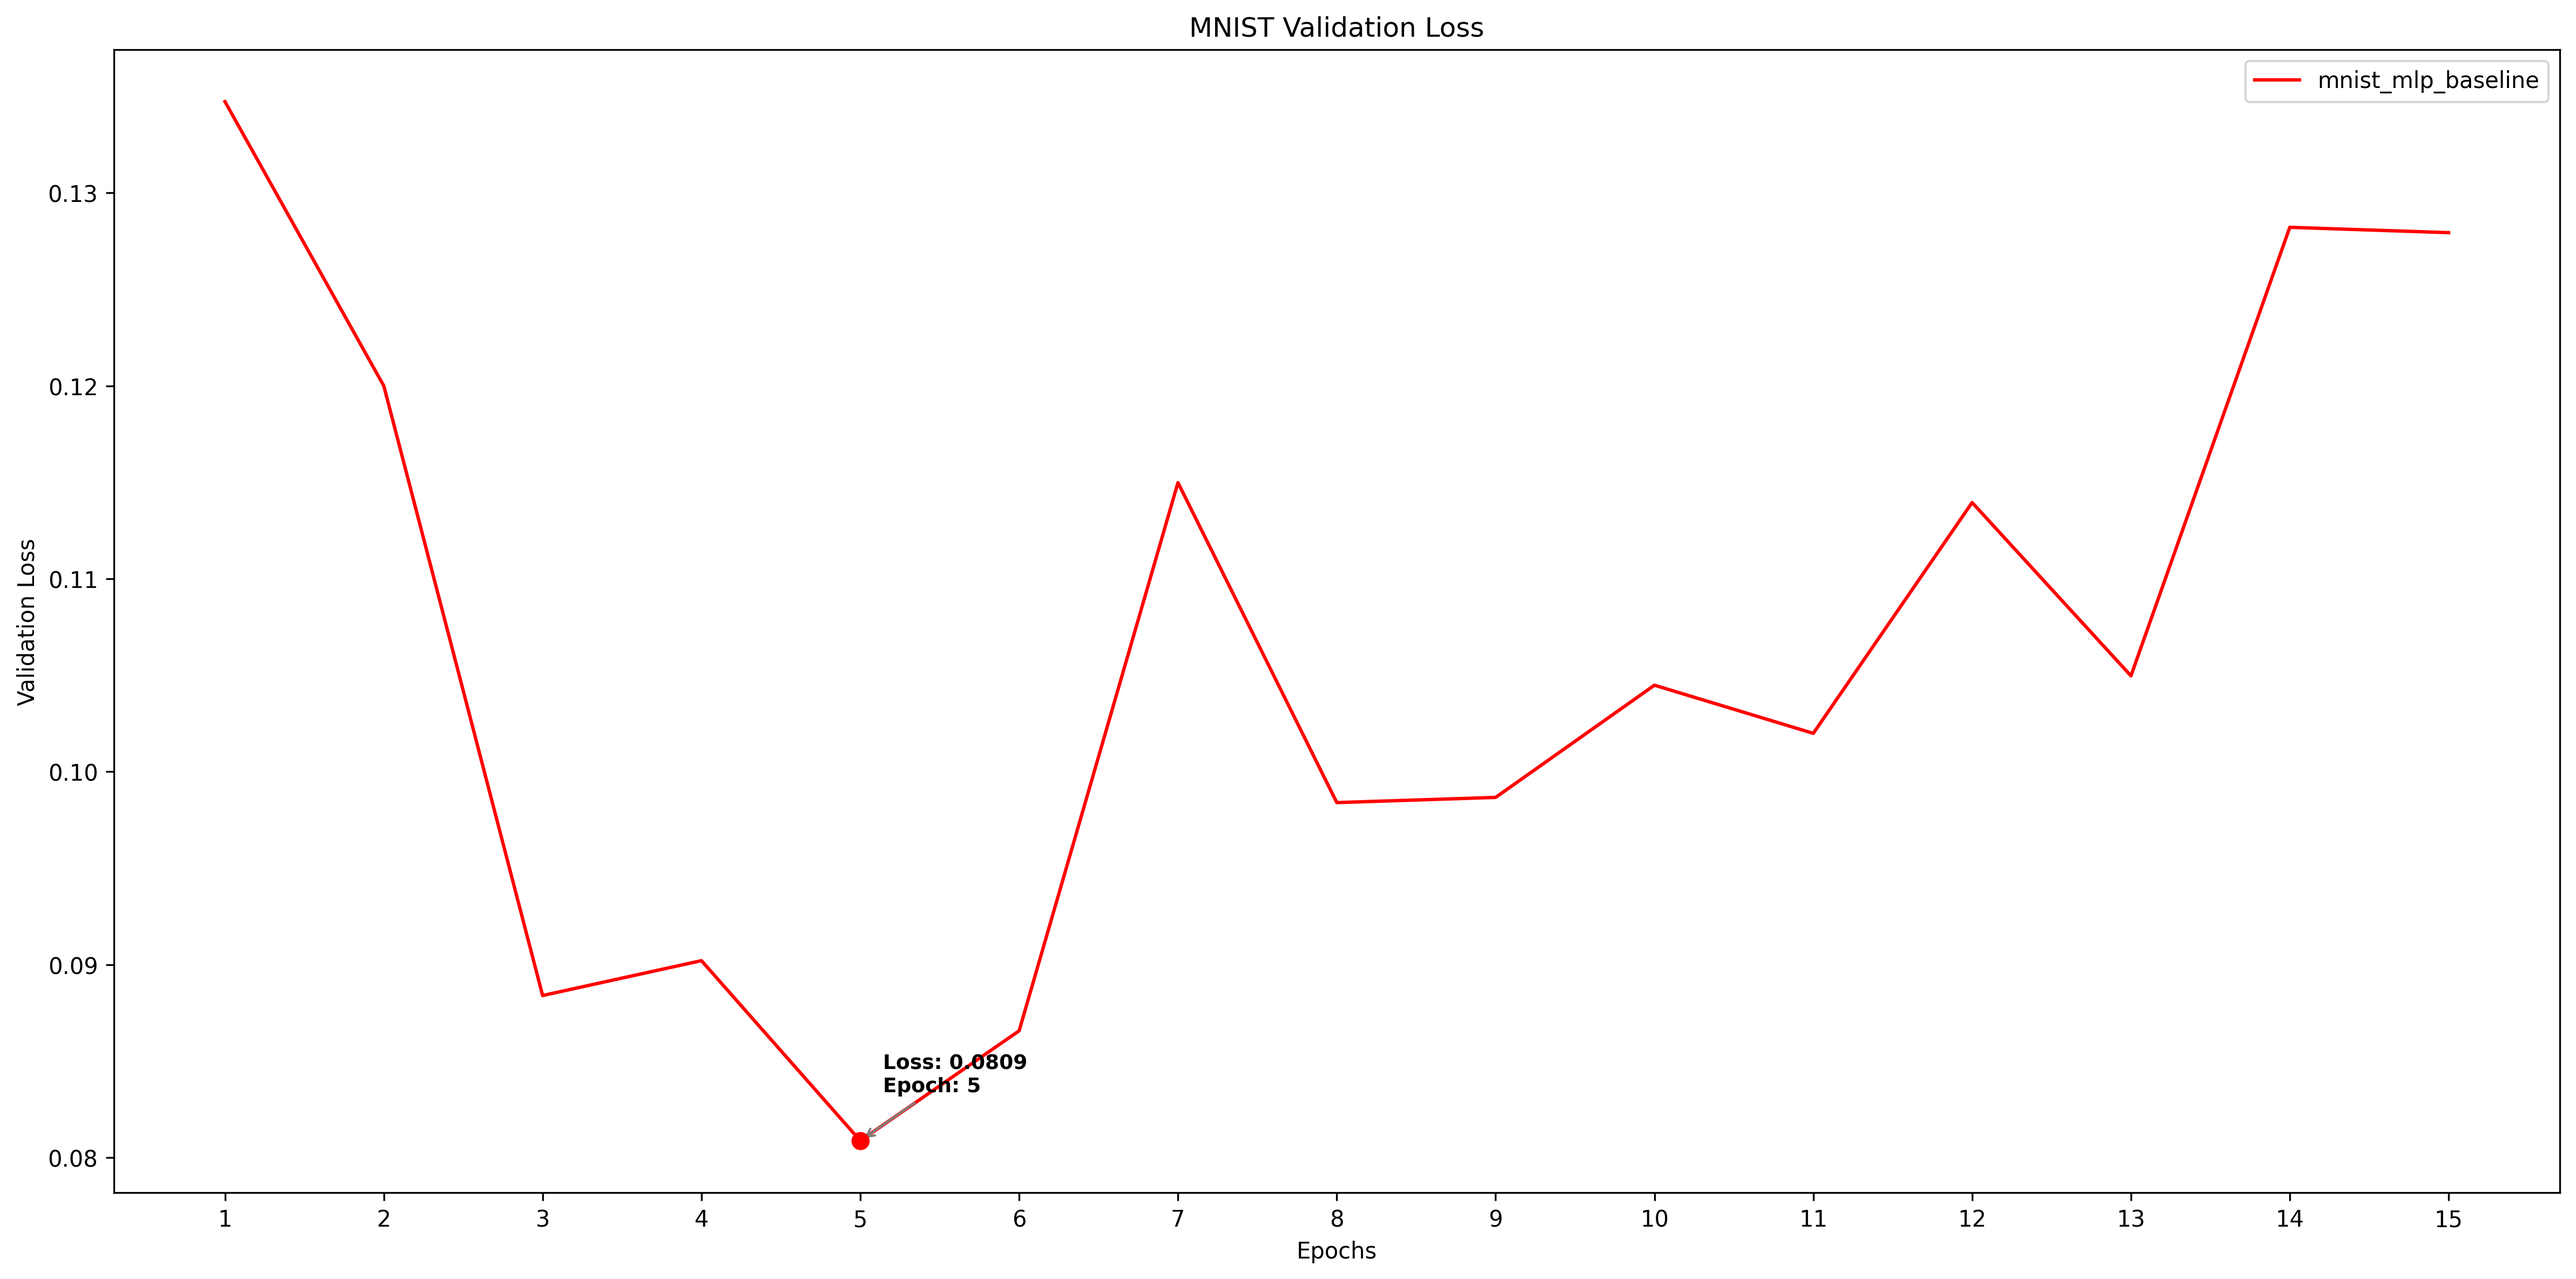
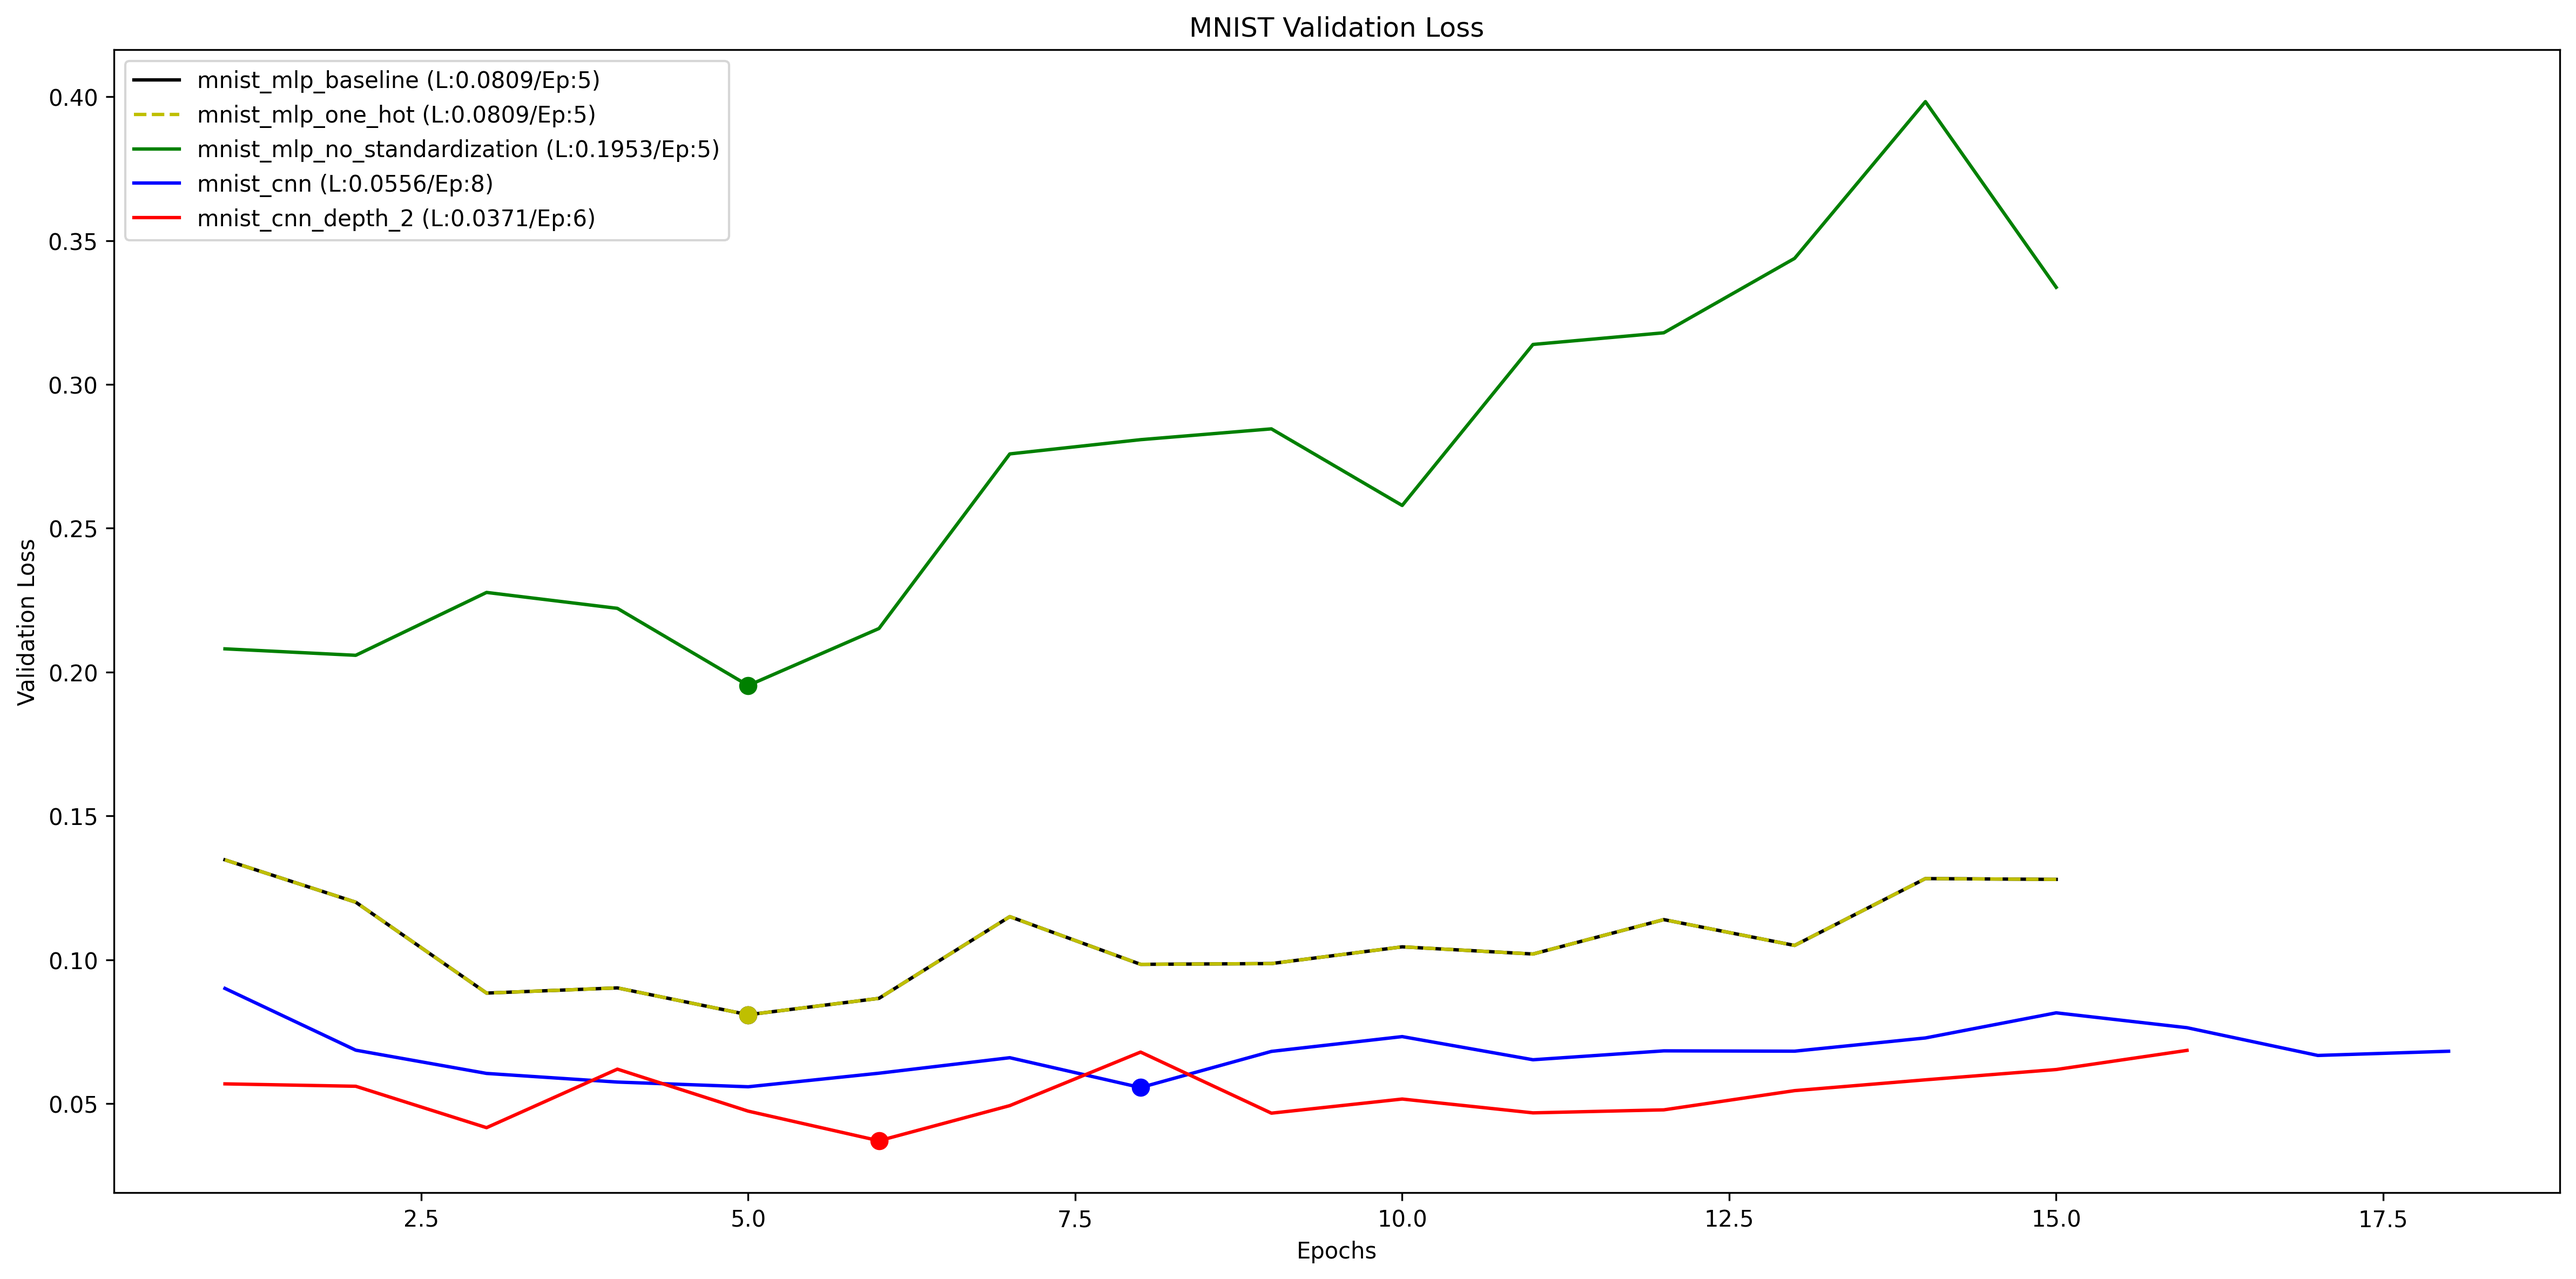
260127 수정중

diff --git a/plot.py b/plot.py
@@ -13,11 +13,8 @@ import numpy as np
 
 import time
 
-# 그래프를 누적해서 그리기 위해 함수 밖에서 Figure 생성
-plt.figure(figsize=(16, 8), dpi=300)
 
-# [추가됨 1] 그래프 순서를 세기 위한 전역 변수
-plot_cnt = 0
+plt.figure(figsize=(16, 8), dpi=300)
 
 def set_seed(seed):
     random.seed(seed)
@@ -28,10 +25,8 @@ def set_seed(seed):
     torch.backends.cudnn.deterministic = True 
     torch.backends.cudnn.benchmark = False 
 
-def main(config_name, color):
-    # [추가됨 2] 전역 변수 사용 선언
-    global plot_cnt
 
+def main(config_name, color,patience=15):
     set_seed(42)
 
     device = torch.device('cuda' if torch.cuda.is_available() else 'cpu')
@@ -49,7 +44,7 @@ def main(config_name, color):
     optimizer = train.select_optimizer(my_model,train_parameters)
     scheduler = train.select_scheduler(optimizer,train_parameters)
     
-    early_stop = train.EarlyStopping() 
+    early_stop = train.EarlyStopping(patience=patience) 
 
     EPOCH = train_parameters['epochs']
 
@@ -83,51 +78,44 @@ def main(config_name, color):
     avg_time_per_epoch = total_time/real_epoch
     print(f"total time = {total_time}sec.    avg time per epoch = {avg_time_per_epoch}sec.\n")
 
-    # --- 그래프 그리기 및 최적 지점 표시 ---
+
     epochs = range(1, len(history['val_loss']) + 1)
     
-    plt.plot(epochs, history['val_loss'], color, label=f'{config_name}')
-
     best_loss_idx = np.argmin(history['val_loss']) 
     best_epoch = best_loss_idx + 1
     best_val_loss = history['val_loss'][best_loss_idx]
 
-    plt.scatter(best_epoch, best_val_loss, color=color[0], s=50, zorder=5)
-    
-    # [수정됨 3] plt.text 대신 plt.annotate 사용
-    # plot_cnt가 증가할 때마다 텍스트 위치(xytext)를 y축으로 20포인트씩 위로 올립니다.
-    # arrowprops: 텍스트가 멀어져도 점과 텍스트를 선으로 이어줍니다.
-    plt.annotate(
-        f"Loss: {best_val_loss:.4f}\nEpoch: {best_epoch}", # 표시할 텍스트
-        xy=(best_epoch, best_val_loss),                    # 점의 위치 (화살표 끝)
-        xytext=(10, 20 + plot_cnt * 20),                   # 텍스트 위치 (점보다 얼마나 떨어질지) -> cnt에 따라 높아짐
-        textcoords='offset points',                        # 좌표 기준 (포인트 단위 오프셋)
-        ha='left', va='bottom',                            # 정렬
-        fontsize=9, fontweight='bold',
-        arrowprops=dict(arrowstyle='->', connectionstyle='arc3,rad=0', color='gray') # 화살표 설정
-    )
+    label_str = f"{config_name} (L:{best_val_loss:.4f}/Ep:{best_epoch})"
 
-    plt.ticklabel_format(style='plain', axis='x')
-    plt.locator_params(axis='x', nbins=20)
-    
-    # [추가됨 4] 다음 그래프를 위해 카운트 증가
-    plot_cnt += 1
+    z_ord = 10 if '--' in color else 2
+    plt.plot(epochs, history['val_loss'], color, label=label_str, zorder=z_ord)
+    plt.scatter(best_epoch, best_val_loss, color=color[0], s=50, zorder=z_ord+1)
     
     return dataset
-    
-# dataset = main('iris_mlp_adam', 'r-')    
-# main('iris_mlp_baseline', 'b-')          
-# main('iris_mlp_high_lr', 'g-')             
-# main('iris_mlp_low_lr', 'k-')               
-# main('iris_mlp_high_batch', 'm-')       
-# main('iris_mlp_low_batch', 'c-')       
-# main('iris_mlp_no_standardization', 'y-')
 
-dataset = main('mnist_mlp_baseline', 'r-')    
-main('mnist_mlp_one_hot', 'b-')          
-main('mnist_mlp_no_standardization', 'g-')             
-main('mnist_cnn', 'k-')
-main('mnist_cnn_depth_2', 'm-')       
+#patience = 10
+# dataset = main('iris_mlp_adam','r-')
+# main('iris_mlp_baseline','b-')
+# main('iris_mlp_high_lr','g-')
+# main('iris_mlp_low_lr','k-')
+# main('iris_mlp_high_batch','m-')
+# main('iris_mlp_low_batch','c-')
+# main('iris_mlp_no_standardization','y-')
+
+# dataset = main('mnist_mlp_baseline','k-')
+# main('mnist_mlp_one_hot','y--')
+# main('mnist_mlp_no_standardization','g-')
+# main('mnist_cnn','b-')
+# main('mnist_cnn_depth_2', 'r-')
+
+#patience = 15로 변경 후 실행
+dataset = main('fashion-mnist_cnn_baseline', 'k-')
+main('fashion-mnist_cnn_dropout','b-')
+main('fashion-mnist_cnn_bn','g-')
+main('fashion-mnist_cnn_scheduler','y--')
+main('fashion-mnist_cnn_aug','m-')
+main('fashion-mnist_cnn_improved','r-',patience=20)
+
 
 plt.legend()
 plt.title(f'{dataset} Validation Loss')

diff --git a/mnist_mlp_cnn_baseline.py b/mnist_mlp_cnn_baseline.py
@@ -20,7 +20,7 @@ def set_seed(seed):
     torch.backends.cudnn.deterministic = True 
     torch.backends.cudnn.benchmark = False 
 
-def main(config_name):
+def main(config_name,patience = 10):
     set_seed(42)
 
     device = torch.device('cuda' if torch.cuda.is_available() else 'cpu')
@@ -37,7 +37,7 @@ def main(config_name):
     my_model = model.select_model(model_parameters,device)
     optimizer = train.select_optimizer(my_model,train_parameters)
     scheduler = train.select_scheduler(optimizer,train_parameters)
-    early_stop = train.EarlyStopping()
+    early_stop = train.EarlyStopping(patience=patience)
     EPOCH = train_parameters['epochs']
 
     history = {'train_loss': [], 'val_loss': [], 'train_acc': [], 'val_acc': []}
@@ -100,4 +100,3 @@ main("mnist_mlp_one_hot")
 main("mnist_mlp_no_standardization")
 main("mnist_cnn")
 main("mnist_cnn_depth_2")
-#반드시 patience 확인 후 돌릴것!

diff --git a/iris_mlp_baseline.py b/iris_mlp_baseline.py
@@ -20,7 +20,7 @@ def set_seed(seed):
     torch.backends.cudnn.deterministic = True 
     torch.backends.cudnn.benchmark = False 
 
-def main(config_name):
+def main(config_name,patience = 10):
     set_seed(42)
 
     device = torch.device('cuda' if torch.cuda.is_available() else 'cpu')
@@ -37,7 +37,7 @@ def main(config_name):
     my_model = model.select_model(model_parameters,device)
     optimizer = train.select_optimizer(my_model,train_parameters)
     scheduler = train.select_scheduler(optimizer,train_parameters)
-    early_stop = train.EarlyStopping() #iris patience
+    early_stop = train.EarlyStopping(patience=patience) #iris patience
     EPOCH = train_parameters['epochs']
 
     history = {'train_loss': [], 'val_loss': [], 'train_acc': [], 'val_acc': []}
